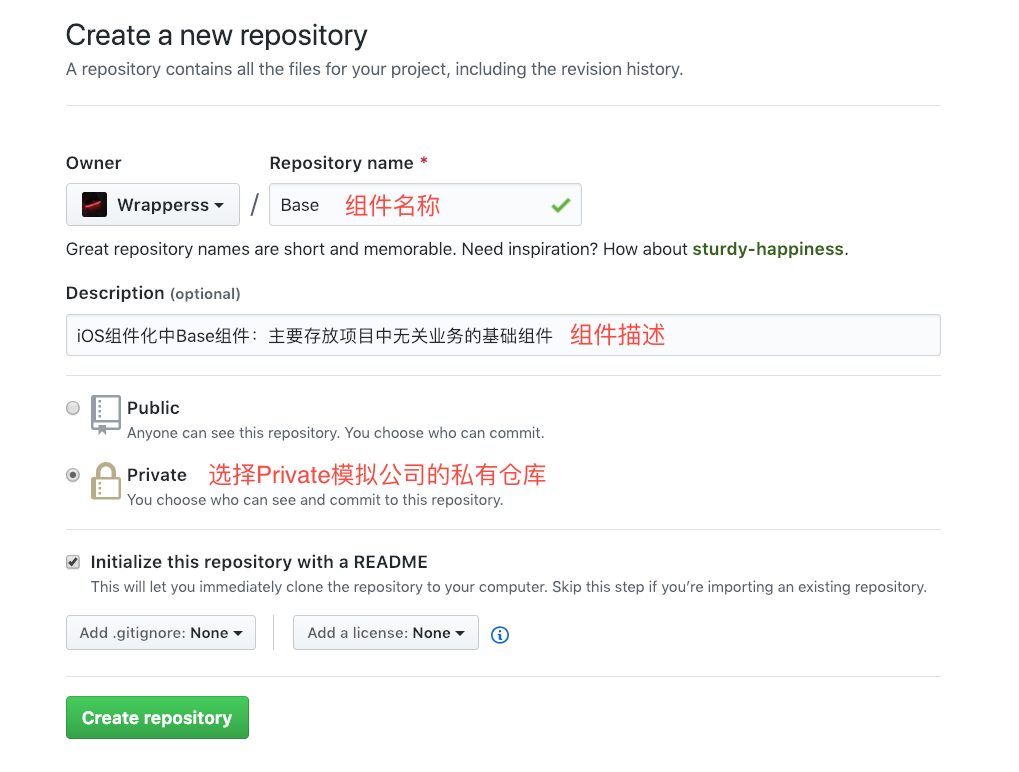
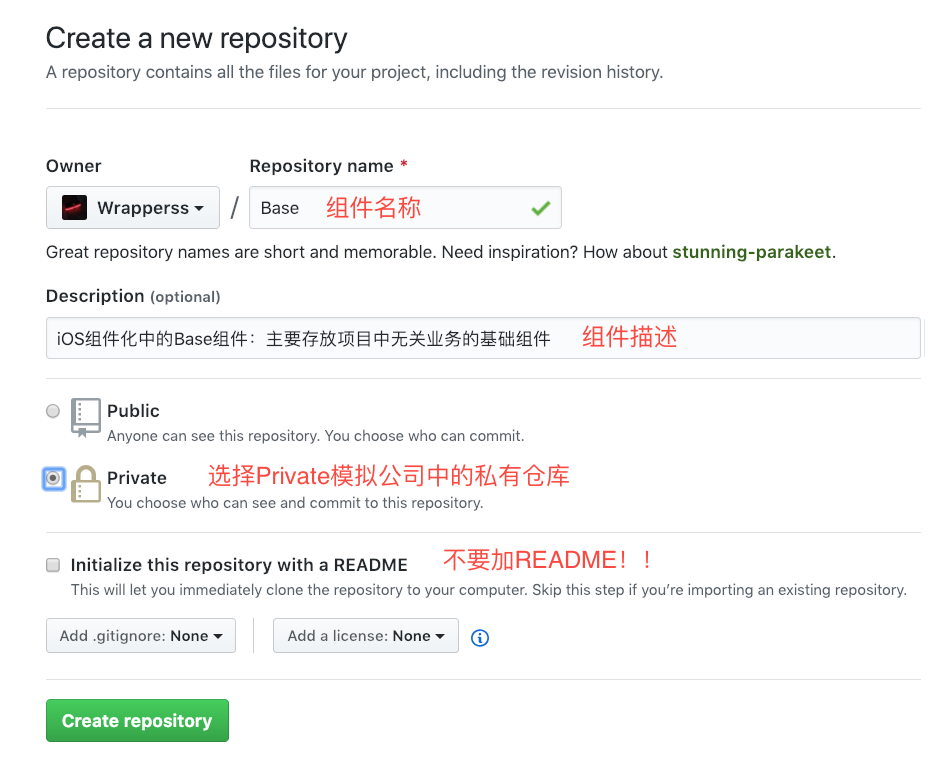
Site updated: 2019-01-25 17:27:46

diff --git a/2019/01/25/组件化第一步，创建私有Pod/index.html b/2019/01/25/组件化第一步，创建私有Pod/index.html
@@ -272,7 +272,7 @@ height:50vh;
                 
                 
                     <div class="post-intro-read">
-                        <span>字数统计: <span class="post-count word-count">599</span>阅读时长: <span class="post-count reading-time">2 min</span></span>
+                        <span>字数统计: <span class="post-count word-count">732</span>阅读时长: <span class="post-count reading-time">3 min</span></span>
                     </div>
                 
                 <div class="post-intro-meta">
@@ -404,19 +404,22 @@ height:50vh;
         <blockquote>
 <p>关于组件化，目前比较流行的方案大概有三种：<code>Router</code>, <code>Protocol</code>, <code>Target-Action</code>。<br>不论是选择哪一种方案，都需要通过建立私有Pod来管理项目。本文希望通过建立一个组件化中常用的<strong>Base</strong>库能将这个事情讲清楚。</p>
 </blockquote>
-<h1 id="创建仓库-Repository"><a href="#创建仓库-Repository" class="headerlink" title="创建仓库(Repository)"></a>创建仓库(Repository)</h1><p>私有库也需要单独一个<code>Repository</code>来存储我们的代码，就像<a href="https://github.com/ReactiveX/RxSwift" target="_blank" rel="noopener">RxSwfit</a>。<br>此处用Github的私有库为例，一般创建在公司的GitLab上。<br><img src="./创建仓库.png" alt="创建仓库"></p>
-<h1 id="创建Pod"><a href="#创建Pod" class="headerlink" title="创建Pod"></a>创建Pod</h1><h3 id="clone-仓库"><a href="#clone-仓库" class="headerlink" title="clone 仓库"></a>clone 仓库</h3><figure class="highlight sh"><table><tr><td class="gutter"><pre><span class="line">1</span><br></pre></td><td class="code"><pre><span class="line">git <span class="built_in">clone</span> https://github.com/Wrapperss/Base.git</span><br></pre></td></tr></table></figure>
-<h3 id="进入仓库根目录"><a href="#进入仓库根目录" class="headerlink" title="进入仓库根目录"></a>进入仓库根目录</h3><figure class="highlight sh"><table><tr><td class="gutter"><pre><span class="line">1</span><br></pre></td><td class="code"><pre><span class="line"><span class="built_in">cd</span> Base</span><br></pre></td></tr></table></figure>
-<h3 id="创建Base库的podspec"><a href="#创建Base库的podspec" class="headerlink" title="创建Base库的podspec"></a>创建Base库的podspec</h3><p>其中的<a href="https://guides.cocoapods.org/syntax/podspec.html" target="_blank" rel="noopener">podspec</a>包含了这个库的信息（包括名称，版本和描述等）.<br>下面是官方定义：</p>
+<h1 id="创建Pod"><a href="#创建Pod" class="headerlink" title="创建Pod"></a>创建Pod</h1><h3 id="创建Base库的podspec"><a href="#创建Base库的podspec" class="headerlink" title="创建Base库的podspec"></a>创建Base库的podspec</h3><p>选择合适的本地路径创建<code>modularization</code>文件夹<br>其中的<a href="https://guides.cocoapods.org/syntax/podspec.html" target="_blank" rel="noopener">podspec</a>包含了这个库的信息（包括名称，版本和描述等）.<br>下面是官方定义：</p>
 <blockquote>
 <p>A specification describes a version of Pod library. It includes details about where the source should be fetched from, what files to use, the build settings to apply, and other general metadata such as its name, version, and description.<br>一个描述各个版本Pod库的规范。它包括关于应该从何处获取源码、使用到的文件、应用构建设置以及其他通用元数据(如其名称、版本和描述)的详细信息。</p>
 </blockquote>
-<figure class="highlight sh"><table><tr><td class="gutter"><pre><span class="line">1</span><br></pre></td><td class="code"><pre><span class="line">pod lib create Base</span><br></pre></td></tr></table></figure>
+<figure class="highlight sh"><table><tr><td class="gutter"><pre><span class="line">1</span><br><span class="line">2</span><br></pre></td><td class="code"><pre><span class="line"><span class="built_in">cd</span> Base</span><br><span class="line">pod lib create Base</span><br></pre></td></tr></table></figure>
 <p>创建时会需要回答几个问题<br><img src="./创建podspec.png" alt="创建podspec"></p>
 <h3 id="编辑podspec"><a href="#编辑podspec" class="headerlink" title="编辑podspec"></a>编辑podspec</h3><p>用编辑器打开<code>Base.podspec</code>文件，把我们库的信息填写到<code>podspec</code>中去。<br><strong>务必每一项都要填写正确，如s.homepage，s.source中的链接要能够正常访问</strong><br><figure class="highlight ruby"><table><tr><td class="gutter"><pre><span class="line">1</span><br><span class="line">2</span><br><span class="line">3</span><br><span class="line">4</span><br><span class="line">5</span><br><span class="line">6</span><br><span class="line">7</span><br><span class="line">8</span><br><span class="line">9</span><br><span class="line">10</span><br><span class="line">11</span><br><span class="line">12</span><br><span class="line">13</span><br><span class="line">14</span><br><span class="line">15</span><br><span class="line">16</span><br><span class="line">17</span><br><span class="line">18</span><br><span class="line">19</span><br><span class="line">20</span><br><span class="line">21</span><br><span class="line">22</span><br><span class="line">23</span><br><span class="line">24</span><br><span class="line">25</span><br><span class="line">26</span><br><span class="line">27</span><br><span class="line">28</span><br></pre></td><td class="code"><pre><span class="line">Pod::Spec.new <span class="keyword">do</span> <span class="params">|s|</span></span><br><span class="line">  s.name             = <span class="string">'Base'</span></span><br><span class="line">  s.version          = <span class="string">'0.0.1'</span> <span class="comment"># 这里的version要与git操作中的tag相一致，因为目前Base库中还没有代码，故此我把version设为0.0.1</span></span><br><span class="line">  s.summary          = <span class="string">'iOS组件化中Base组件：主要存放项目中无关业务的基础组件'</span></span><br><span class="line"></span><br><span class="line">  s.description      = <span class="string">&lt;&lt;-DESC</span></span><br><span class="line"><span class="string">TODO: Add long description of the pod here.</span></span><br><span class="line"><span class="string">                       DESC</span></span><br><span class="line"></span><br><span class="line">  s.homepage         = <span class="string">'https://github.com/Wrapperss/Base.git'</span></span><br><span class="line">  <span class="comment"># s.screenshots     = 'www.example.com/screenshots_1', 'www.example.com/screenshots_2'</span></span><br><span class="line">  s.license          = &#123; <span class="symbol">:type</span> =&gt; <span class="string">'MIT'</span>, <span class="symbol">:file</span> =&gt; <span class="string">'LICENSE'</span> &#125;</span><br><span class="line">  s.author           = &#123; <span class="string">'Wrappers'</span> =&gt; <span class="string">'zhanglive@outlook.com'</span> &#125;</span><br><span class="line">  s.source           = &#123; <span class="symbol">:git</span> =&gt; <span class="string">'https://github.com/Wrapperss/Base.git'</span>, <span class="symbol">:tag</span> =&gt; s.version.to_s &#125;</span><br><span class="line">  <span class="comment"># s.social_media_url = 'https://twitter.com/&lt;TWITTER_USERNAME&gt;'</span></span><br><span class="line"></span><br><span class="line">  s.ios.deployment_target = <span class="string">'8.0'</span></span><br><span class="line"></span><br><span class="line">  s.source_files = <span class="string">'Base/Classes/**/*'</span></span><br><span class="line">  </span><br><span class="line">  <span class="comment"># s.resource_bundles = &#123;</span></span><br><span class="line">  <span class="comment">#   'Base' =&gt; ['Base/Assets/*.png']</span></span><br><span class="line">  <span class="comment"># &#125;</span></span><br><span class="line"></span><br><span class="line">  <span class="comment"># s.public_header_files = 'Pod/Classes/**/*.h'</span></span><br><span class="line">  s.frameworks = <span class="string">'UIKit'</span>, <span class="string">'MapKit'</span></span><br><span class="line">  s.dependency <span class="string">'AFNetworking'</span>, <span class="string">'~&gt; 2.3'</span> <span class="comment">#依赖的其他库</span></span><br><span class="line"><span class="keyword">end</span></span><br></pre></td></tr></table></figure></p>
-<h3 id="测试podspec是否正确，提交代码"><a href="#测试podspec是否正确，提交代码" class="headerlink" title="测试podspec是否正确，提交代码"></a>测试podspec是否正确，提交代码</h3><figure class="highlight sh"><table><tr><td class="gutter"><pre><span class="line">1</span><br><span class="line">2</span><br></pre></td><td class="code"><pre><span class="line"><span class="built_in">cd</span> Base</span><br><span class="line">pod lib lint</span><br></pre></td></tr></table></figure>
-<p>会有一些<code>warnings</code>，这里我们暂时不处理。<br><img src="./warnings.png" alt="warnings"><br>直接使用<code>--allow-warnings</code>参数，屏蔽<code>warnings</code><br><figure class="highlight sh"><table><tr><td class="gutter"><pre><span class="line">1</span><br></pre></td><td class="code"><pre><span class="line">pod lib lint --allow-warnings</span><br></pre></td></tr></table></figure></p>
-<p>检测成功后，我们开始提交代码<br>这里用<code>SourceTree</code>演示操作</p>
+<h3 id="测试podspec是否正确"><a href="#测试podspec是否正确" class="headerlink" title="测试podspec是否正确"></a>测试podspec是否正确</h3><figure class="highlight sh"><table><tr><td class="gutter"><pre><span class="line">1</span><br><span class="line">2</span><br></pre></td><td class="code"><pre><span class="line"><span class="built_in">cd</span> Base</span><br><span class="line">pod lib lint</span><br></pre></td></tr></table></figure>
+<h1 id="创建仓库-Repository"><a href="#创建仓库-Repository" class="headerlink" title="创建仓库(Repository)"></a>创建仓库(Repository)</h1><p>私有库也需要单独一个<code>Repository</code>来存储我们的代码，就像<a href="https://github.com/ReactiveX/RxSwift" target="_blank" rel="noopener">RxSwfit</a>。<br>此处用Github的私有库为例，一般创建在公司的GitLab上。<br><img src="./创建仓库.png" alt="创建仓库"></p>
+<h1 id="关联本地与远端，提交代码"><a href="#关联本地与远端，提交代码" class="headerlink" title="关联本地与远端，提交代码"></a>关联本地与远端，提交代码</h1><h3 id="通过以下命令将远端仓库与本地代码关联起来"><a href="#通过以下命令将远端仓库与本地代码关联起来" class="headerlink" title="通过以下命令将远端仓库与本地代码关联起来"></a>通过以下命令将远端仓库与本地代码关联起来</h3><figure class="highlight sh"><table><tr><td class="gutter"><pre><span class="line">1</span><br><span class="line">2</span><br></pre></td><td class="code"><pre><span class="line">git remote add origin https://github.com/Wrapperss/Base.git</span><br><span class="line">git push -u origin master</span><br></pre></td></tr></table></figure>
+<h3 id="提交代码，并将打上Tag"><a href="#提交代码，并将打上Tag" class="headerlink" title="提交代码，并将打上Tag"></a>提交代码，并将打上Tag</h3><p><strong>注意：Tag必须与之前在podspec中填写的version一致，这里我们是0.0.1</strong><br><img src="sourceTree.png" alt="SourceTree"></p>
+<h1 id="创建私有的Spces"><a href="#创建私有的Spces" class="headerlink" title="创建私有的Spces"></a>创建私有的Spces</h1><h3 id="创建一个私有的仓库"><a href="#创建一个私有的仓库" class="headerlink" title="创建一个私有的仓库"></a>创建一个私有的仓库</h3><p><img src="私有Space.png" alt="私有Space"></p>
+<h3 id="将私有Spces创建到本地"><a href="#将私有Spces创建到本地" class="headerlink" title="将私有Spces创建到本地"></a>将私有Spces创建到本地</h3><figure class="highlight sh"><table><tr><td class="gutter"><pre><span class="line">1</span><br></pre></td><td class="code"><pre><span class="line">pod repo add WSpecs https://github.com/Wrapperss/WSpecs.git</span><br></pre></td></tr></table></figure>
+<p>查看本地中<code>open ~/.cocoapods/repos</code><br>在<code>repos</code>中两个文件夹(Master，WSpace)，其中中WSpace就是我们新创建的。</p>
+<h1 id="将Pod推到到WSpace"><a href="#将Pod推到到WSpace" class="headerlink" title="将Pod推到到WSpace"></a>将Pod推到到WSpace</h1><figure class="highlight sh"><table><tr><td class="gutter"><pre><span class="line">1</span><br></pre></td><td class="code"><pre><span class="line">pod repo push WSpecs Base.podspec</span><br></pre></td></tr></table></figure>
+<h1 id="使用"><a href="#使用" class="headerlink" title="使用"></a>使用</h1><p>在<code>Podfile</code>中加入<br><figure class="highlight ruby"><table><tr><td class="gutter"><pre><span class="line">1</span><br><span class="line">2</span><br><span class="line">3</span><br><span class="line">4</span><br></pre></td><td class="code"><pre><span class="line">source <span class="string">'https://github.com/CocoaPods/Specs.git'</span> <span class="comment">#公开的</span></span><br><span class="line">source <span class="string">'https://github.com/Wrapperss/WSpecs.git'</span> <span class="comment">#私有的</span></span><br><span class="line"></span><br><span class="line">pod <span class="string">'Base'</span>, <span class="symbol">:git=&gt;<span class="string">'https://github.com/Wrapperss/Base.git'</span></span> <span class="comment">#可以使用私有库了！</span></span><br></pre></td></tr></table></figure></p>
 
     </article>
     <!-- license  -->
@@ -425,7 +428,7 @@ height:50vh;
             <p>原文作者：<a href="http://yoursite.com">Wrappers</a>
             </p><p>原文链接：<a href="http://yoursite.com/2019/01/25/组件化第一步，创建私有Pod/">http://yoursite.com/2019/01/25/组件化第一步，创建私有Pod/</a>
             </p><p>发表日期：<a href="http://yoursite.com/2019/01/25/组件化第一步，创建私有Pod/">January 25th 2019, 10:57:54 am</a>
-            </p><p>更新日期：<a href="http://yoursite.com/2019/01/25/组件化第一步，创建私有Pod/">January 25th 2019, 3:34:16 pm</a>
+            </p><p>更新日期：<a href="http://yoursite.com/2019/01/25/组件化第一步，创建私有Pod/">January 25th 2019, 5:25:57 pm</a>
             </p><p>版权声明：本文采用<a rel="license" href="http://creativecommons.org/licenses/by-nc/4.0/">知识共享署名-非商业性使用 4.0 国际许可协议</a>进行许可</p>
         </div>
     
@@ -572,7 +575,7 @@ top:50vh;
         <div class="toc-catalog">
             <span class="iconfont-archer catalog-icon">&#xe613;</span><span>CATALOG</span>
         </div>
-        <ol class="toc"><li class="toc-item toc-level-1"><a class="toc-link" href="#创建仓库-Repository"><span class="toc-number">1.</span> <span class="toc-text">创建仓库(Repository)</span></a></li><li class="toc-item toc-level-1"><a class="toc-link" href="#创建Pod"><span class="toc-number">2.</span> <span class="toc-text">创建Pod</span></a><ol class="toc-child"><li class="toc-item toc-level-3"><a class="toc-link" href="#clone-仓库"><span class="toc-number">2.0.1.</span> <span class="toc-text">clone 仓库</span></a></li><li class="toc-item toc-level-3"><a class="toc-link" href="#进入仓库根目录"><span class="toc-number">2.0.2.</span> <span class="toc-text">进入仓库根目录</span></a></li><li class="toc-item toc-level-3"><a class="toc-link" href="#创建Base库的podspec"><span class="toc-number">2.0.3.</span> <span class="toc-text">创建Base库的podspec</span></a></li><li class="toc-item toc-level-3"><a class="toc-link" href="#编辑podspec"><span class="toc-number">2.0.4.</span> <span class="toc-text">编辑podspec</span></a></li><li class="toc-item toc-level-3"><a class="toc-link" href="#测试podspec是否正确，提交代码"><span class="toc-number">2.0.5.</span> <span class="toc-text">测试podspec是否正确，提交代码</span></a></li></ol></li></ol></li></ol>
+        <ol class="toc"><li class="toc-item toc-level-1"><a class="toc-link" href="#创建Pod"><span class="toc-number">1.</span> <span class="toc-text">创建Pod</span></a><ol class="toc-child"><li class="toc-item toc-level-3"><a class="toc-link" href="#创建Base库的podspec"><span class="toc-number">1.0.1.</span> <span class="toc-text">创建Base库的podspec</span></a></li><li class="toc-item toc-level-3"><a class="toc-link" href="#编辑podspec"><span class="toc-number">1.0.2.</span> <span class="toc-text">编辑podspec</span></a></li><li class="toc-item toc-level-3"><a class="toc-link" href="#测试podspec是否正确"><span class="toc-number">1.0.3.</span> <span class="toc-text">测试podspec是否正确</span></a></li></ol></li></ol></li><li class="toc-item toc-level-1"><a class="toc-link" href="#创建仓库-Repository"><span class="toc-number">2.</span> <span class="toc-text">创建仓库(Repository)</span></a></li><li class="toc-item toc-level-1"><a class="toc-link" href="#关联本地与远端，提交代码"><span class="toc-number">3.</span> <span class="toc-text">关联本地与远端，提交代码</span></a><ol class="toc-child"><li class="toc-item toc-level-3"><a class="toc-link" href="#通过以下命令将远端仓库与本地代码关联起来"><span class="toc-number">3.0.1.</span> <span class="toc-text">通过以下命令将远端仓库与本地代码关联起来</span></a></li><li class="toc-item toc-level-3"><a class="toc-link" href="#提交代码，并将打上Tag"><span class="toc-number">3.0.2.</span> <span class="toc-text">提交代码，并将打上Tag</span></a></li></ol></li></ol></li><li class="toc-item toc-level-1"><a class="toc-link" href="#创建私有的Spces"><span class="toc-number">4.</span> <span class="toc-text">创建私有的Spces</span></a><ol class="toc-child"><li class="toc-item toc-level-3"><a class="toc-link" href="#创建一个私有的仓库"><span class="toc-number">4.0.1.</span> <span class="toc-text">创建一个私有的仓库</span></a></li><li class="toc-item toc-level-3"><a class="toc-link" href="#将私有Spces创建到本地"><span class="toc-number">4.0.2.</span> <span class="toc-text">将私有Spces创建到本地</span></a></li></ol></li></ol></li><li class="toc-item toc-level-1"><a class="toc-link" href="#将Pod推到到WSpace"><span class="toc-number">5.</span> <span class="toc-text">将Pod推到到WSpace</span></a></li><li class="toc-item toc-level-1"><a class="toc-link" href="#使用"><span class="toc-number">6.</span> <span class="toc-text">使用</span></a></li></ol>
     </div>
     
     <div class="back-top iconfont-archer">&#xe639;</div>

diff --git a/index.html b/index.html
@@ -367,10 +367,9 @@ height:50vh;
             
 关于组件化，目前比较流行的方案大概有三种：Router, Protocol, Target-Action。不论是选择哪一种方案，都需要通过建立私有Pod来管理项目。本文希望通过建立一个组件化中常用的Base库能将这个事情讲清楚。
 
-创建仓库(Repository)私有库也需要单独一个Repository来存储我们的代码，就像RxSwfit。此处用Github的私有库为例，一般创建在公司的GitLab上。
-创建Podclone 仓库1git clone https://github.com/Wrapperss/Base.git
-进入仓库根目录1cd Base
-创建Base库的podspe...
+创建Pod创建Base库的podspec选择合适的本地路径创建modularization文件夹其中的podspec包含了这个库的信息（包括名称，版本和描述等）.下面是官方定义：
+
+A specification describes a version of Pod library. It includes details about where the s...
         </div>
         <div class="abstract-post-meta">
             <!-- date  -->

diff --git a/archives/2019/01/index.html b/archives/2019/01/index.html
@@ -354,10 +354,9 @@
             
 关于组件化，目前比较流行的方案大概有三种：Router, Protocol, Target-Action。不论是选择哪一种方案，都需要通过建立私有Pod来管理项目。本文希望通过建立一个组件化中常用的Base库能将这个事情讲清楚。
 
-创建仓库(Repository)私有库也需要单独一个Repository来存储我们的代码，就像RxSwfit。此处用Github的私有库为例，一般创建在公司的GitLab上。
-创建Podclone 仓库1git clone https://github.com/Wrapperss/Base.git
-进入仓库根目录1cd Base
-创建Base库的podspe...
+创建Pod创建Base库的podspec选择合适的本地路径创建modularization文件夹其中的podspec包含了这个库的信息（包括名称，版本和描述等）.下面是官方定义：
+
+A specification describes a version of Pod library. It includes details about where the s...
         </div>
         <div class="abstract-post-meta">
             <!-- date  -->

diff --git a/archives/2019/index.html b/archives/2019/index.html
@@ -354,10 +354,9 @@
             
 关于组件化，目前比较流行的方案大概有三种：Router, Protocol, Target-Action。不论是选择哪一种方案，都需要通过建立私有Pod来管理项目。本文希望通过建立一个组件化中常用的Base库能将这个事情讲清楚。
 
-创建仓库(Repository)私有库也需要单独一个Repository来存储我们的代码，就像RxSwfit。此处用Github的私有库为例，一般创建在公司的GitLab上。
-创建Podclone 仓库1git clone https://github.com/Wrapperss/Base.git
-进入仓库根目录1cd Base
-创建Base库的podspe...
+创建Pod创建Base库的podspec选择合适的本地路径创建modularization文件夹其中的podspec包含了这个库的信息（包括名称，版本和描述等）.下面是官方定义：
+
+A specification describes a version of Pod library. It includes details about where the s...
         </div>
         <div class="abstract-post-meta">
             <!-- date  -->

diff --git a/archives/index.html b/archives/index.html
@@ -354,10 +354,9 @@
             
 关于组件化，目前比较流行的方案大概有三种：Router, Protocol, Target-Action。不论是选择哪一种方案，都需要通过建立私有Pod来管理项目。本文希望通过建立一个组件化中常用的Base库能将这个事情讲清楚。
 
-创建仓库(Repository)私有库也需要单独一个Repository来存储我们的代码，就像RxSwfit。此处用Github的私有库为例，一般创建在公司的GitLab上。
-创建Podclone 仓库1git clone https://github.com/Wrapperss/Base.git
-进入仓库根目录1cd Base
-创建Base库的podspe...
+创建Pod创建Base库的podspec选择合适的本地路径创建modularization文件夹其中的podspec包含了这个库的信息（包括名称，版本和描述等）.下面是官方定义：
+
+A specification describes a version of Pod library. It includes details about where the s...
         </div>
         <div class="abstract-post-meta">
             <!-- date  -->

diff --git a/tags/iOS/index.html b/tags/iOS/index.html
@@ -354,10 +354,9 @@
             
 关于组件化，目前比较流行的方案大概有三种：Router, Protocol, Target-Action。不论是选择哪一种方案，都需要通过建立私有Pod来管理项目。本文希望通过建立一个组件化中常用的Base库能将这个事情讲清楚。
 
-创建仓库(Repository)私有库也需要单独一个Repository来存储我们的代码，就像RxSwfit。此处用Github的私有库为例，一般创建在公司的GitLab上。
-创建Podclone 仓库1git clone https://github.com/Wrapperss/Base.git
-进入仓库根目录1cd Base
-创建Base库的podspe...
+创建Pod创建Base库的podspec选择合适的本地路径创建modularization文件夹其中的podspec包含了这个库的信息（包括名称，版本和描述等）.下面是官方定义：
+
+A specification describes a version of Pod library. It includes details about where the s...
         </div>
         <div class="abstract-post-meta">
             <!-- date  -->
